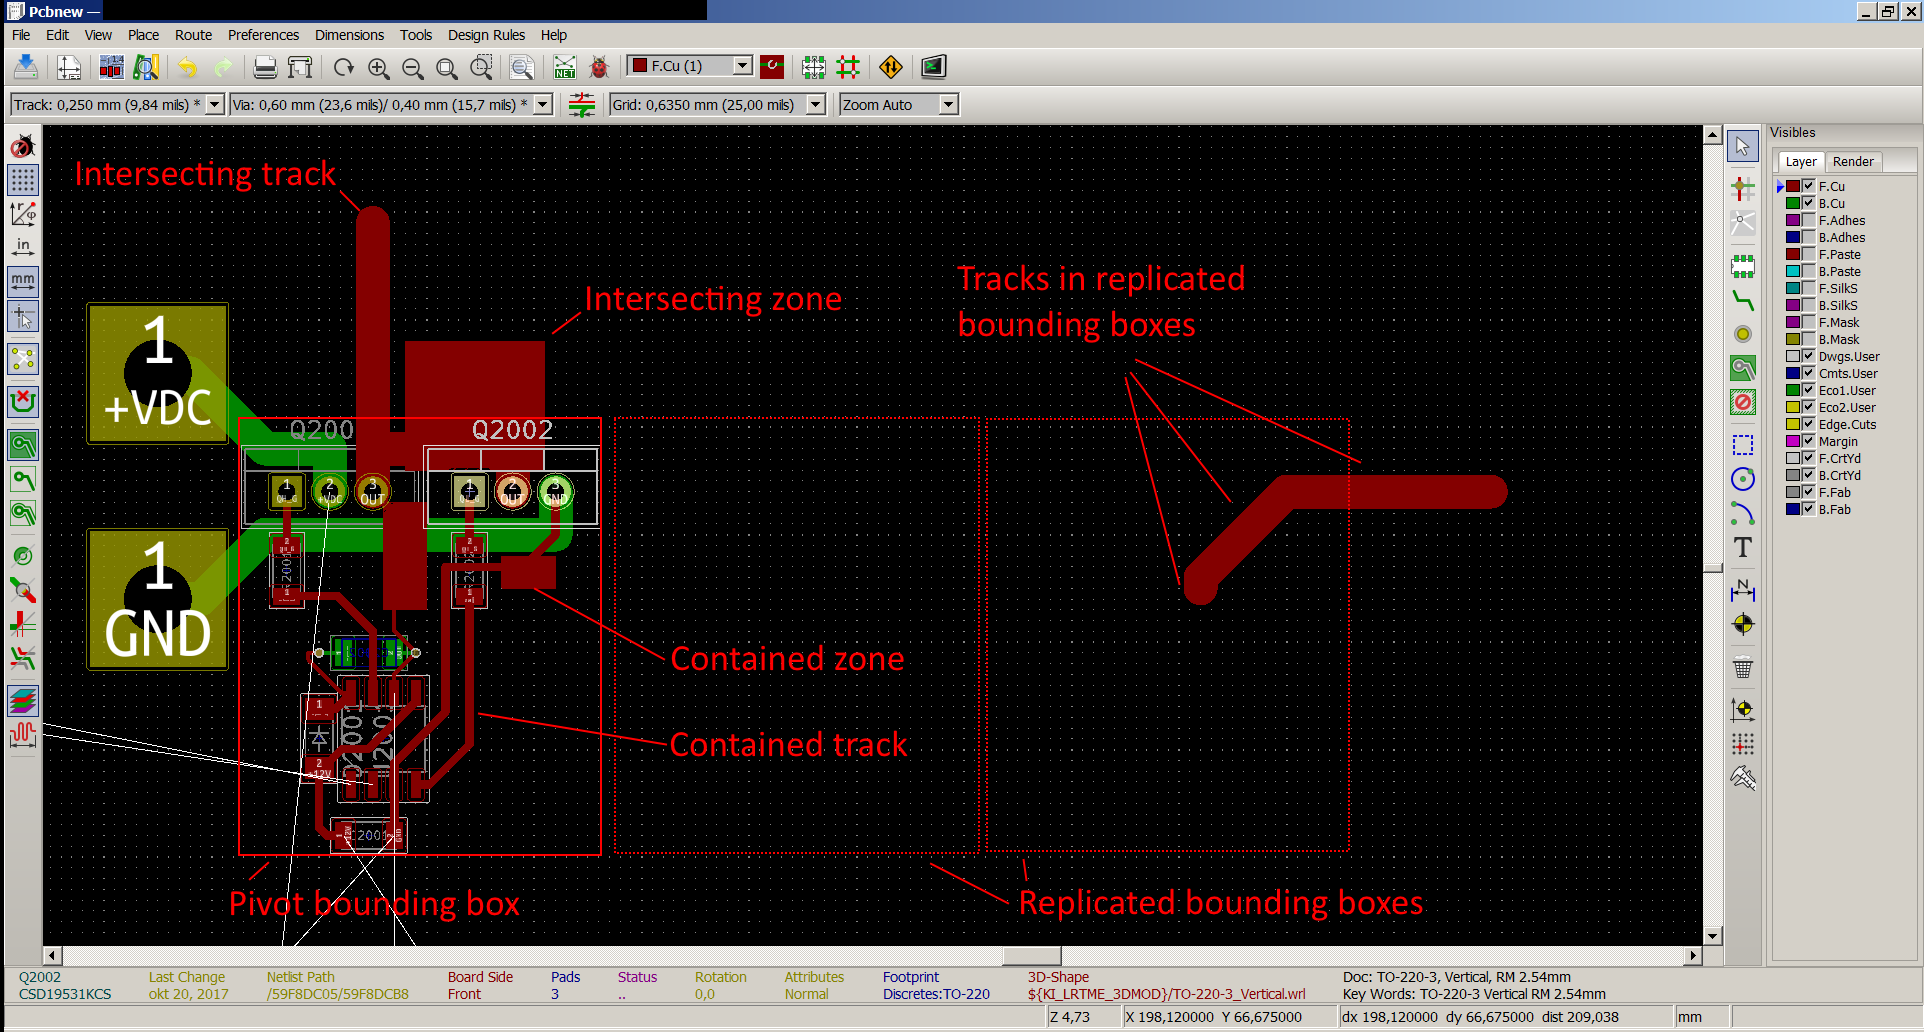
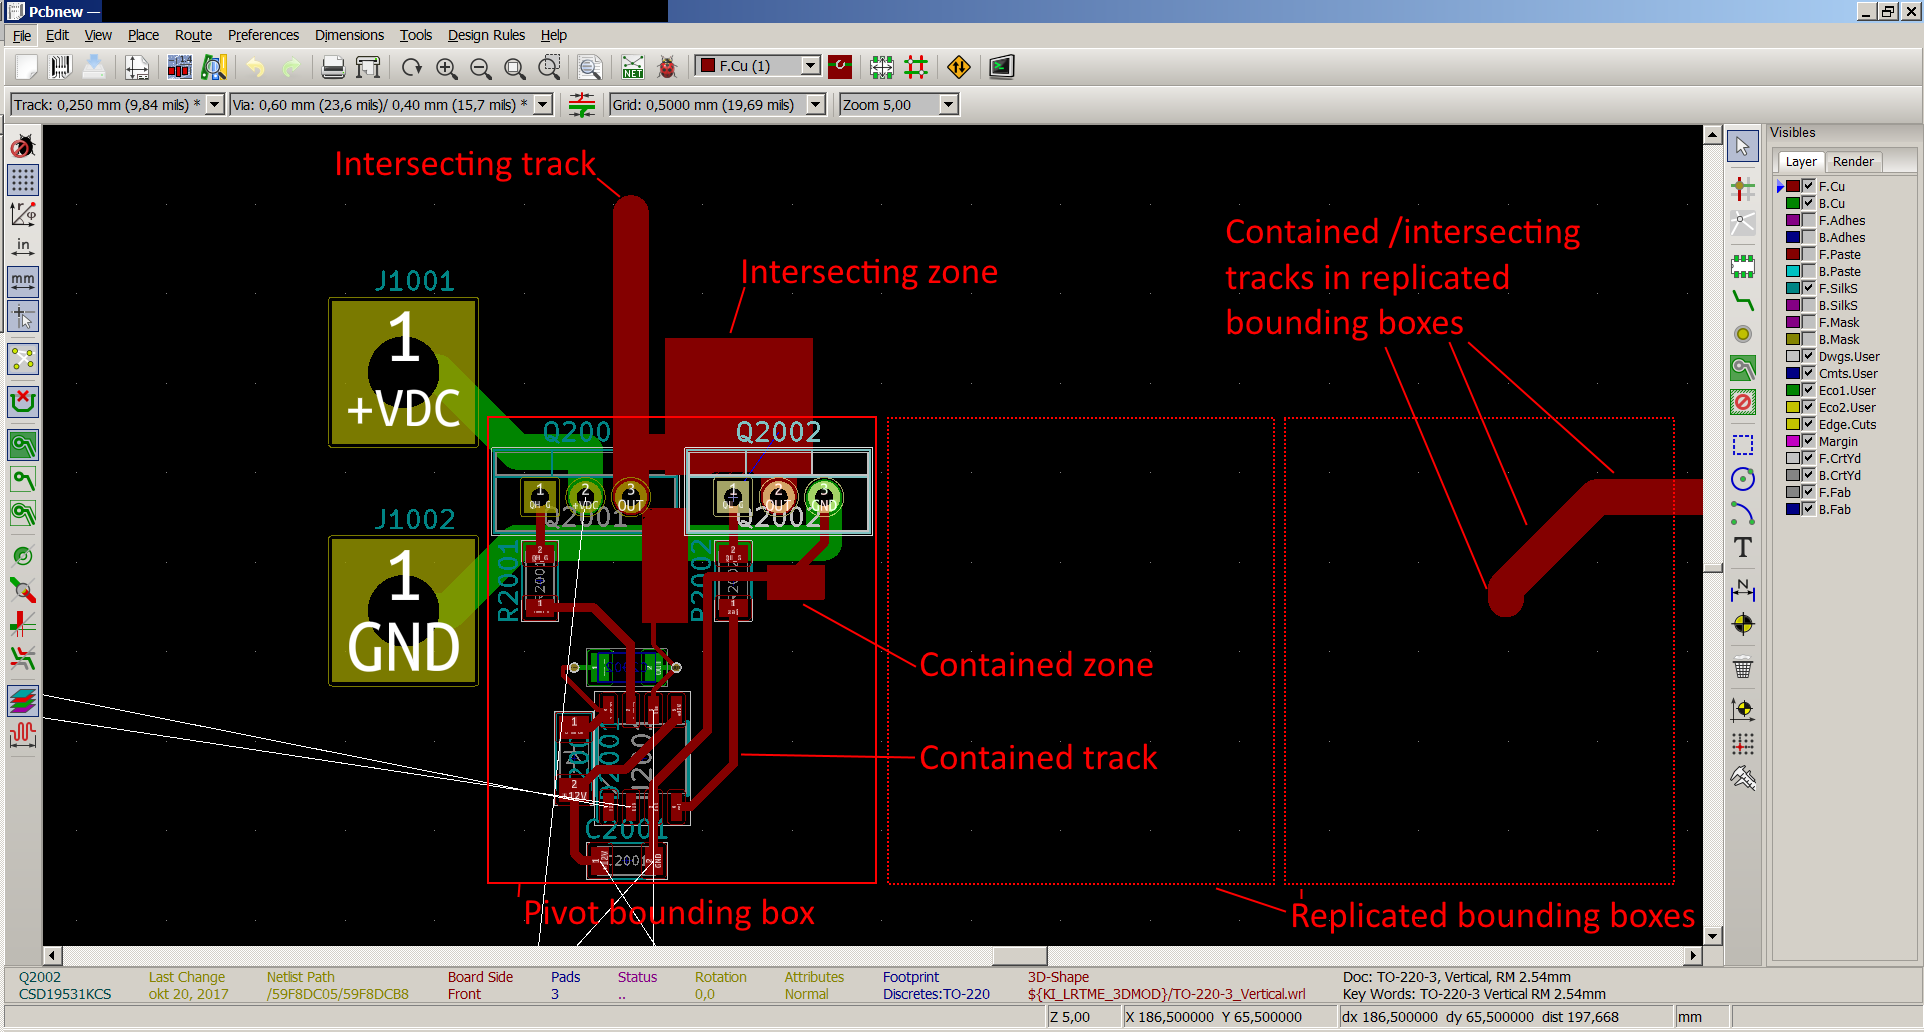
Updated documentation

diff --git a/README.md b/README.md
@@ -14,14 +14,14 @@ within the plugin folder only *.py files are required for operation.
 While the action plugin works within pcbnew, the `replicatelayout` module can be used also in pcbnew scripting console or even without pcbnew running. For example look at lines 210, 211 in `replicatelayout.py`. Additionally the `replicatelayout.py` module if run standalone will test itself aginst known correct layouts (provided within the plugin folder). This is to ease testing if pcbnew API changes in the future. The `replicatelayout` module does not work with Kicad 4.0.7 as the Python API lacks certain methods.
 
 This plugin replicates layout section. The replication is based upon hierarchical sheets.
-Basic requirement for replication is that the section for replication is completely contained within one hierarchical sheet, and replicated sections are just a copy of the same sheet. The example can be seen in this two pictures.
+Basic requirement for replication is that the section for replication is completely contained within one hierarchical sheet, and replicated sections are just a copy of the same sheet. Plugin also replicates module text layout (References, Values and other text bound to a module). The example can be seen in this two pictures.
 
 ![Top sheet schematics](https://raw.githubusercontent.com/MitjaNemec/Kicad_action_plugins/master/screenshots/Replicate_layout_0.png)
 ![Hierarchical sheet to replicate](https://raw.githubusercontent.com/MitjaNemec/Kicad_action_plugins/master/screenshots/Replicate_layout_1.png)
 
-Once the section for replication (pivot section) has been layout out (modules, tracks and zones placed) you need to select any of the modules within this section and run the plugin.
+Once the section for replication (pivot section) has been laid out (modules, tracks and zones placed) you need to select any of the modules within this section and run the plugin.
 
-The plugin will ask for x and y offset (in mm) with respect to pivot section where replicated sections will be placed. Additionally you can choose whether to replicate only tracks and zones which are within the bounding box constituted by all the modules in the section. Otherwise even zones and tracks which only intersect this bounding box will also be replicated. Additionally tracks and zones already laid out in replicated bounding boxes can be removed (useful when updating)
+The plugin will ask for x and y offset (in mm) with respect to pivot section where replicated sections will be placed. Additionally you can choose wheather you want to replicate also zones and/or tracks. By default only tracks and zones which are contained in bounding box constituted by all the modules in the section will be replicated. You can seledt to replicate also zones and tracks which intersect this bounding box. Additionally tracks and zones already laid out in replicated bounding boxes can be removed (useful when updating)
 
 ![Bounding box, contained, intersecting definitions](https://raw.githubusercontent.com/MitjaNemec/Kicad_action_plugins/master/screenshots/Replicate_layout_2.png)
 
@@ -32,3 +32,9 @@ Example of replication of only contained tracks and zones
 Example of replication including intersecting zones and tracks
 
 ![Replication including intersecting zones and tracks](https://raw.githubusercontent.com/MitjaNemec/Kicad_action_plugins/master/screenshots/Intersecting.gif)
+
+Example of replication of module layout only (no tracks or zones)
+
+![Replication of modules only](https://raw.githubusercontent.com/MitjaNemec/Kicad_action_plugins/master/screenshots/No_tracks_or_zones.gif)
+
+
